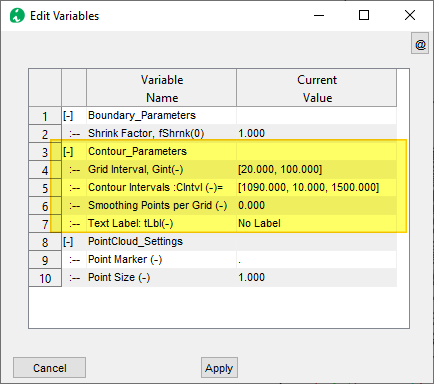
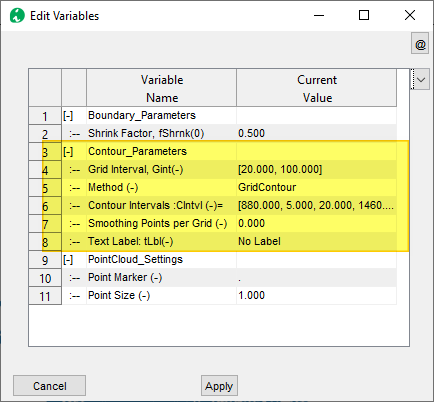
JulCommit-better late than never

diff --git a/index.html b/index.html
@@ -1,0 +1,59 @@
+<!DOCTYPE html>
+
+<html lang="en" xmlns="http://www.w3.org/1999/xhtml">
+<head>
+    <meta charset="utf-8" />
+    <title></title>
+</head>
+
+
+<!DOCTYPE html>
+<html>
+<head>
+    <title>Welcome to my Website</title>
+    <style>
+        body {
+            font-family: Arial, sans-serif;
+            margin: 0;
+            padding: 0;
+        }
+
+        .welcome {
+            background-color: #f2f2f2;
+            padding: 50px;
+            text-align: center;
+        }
+
+            .welcome h1 {
+                font-size: 36px;
+                margin-bottom: 20px;
+            }
+
+            .welcome p {
+                font-size: 18px;
+                margin-bottom: 30px;
+            }
+
+            .welcome a {
+                display: inline-block;
+                background-color: #4CAF50;
+                color: white;
+                padding: 10px 20px;
+                text-decoration: none;
+                border-radius: 5px;
+                font-size: 16px;
+            }
+
+                .welcome a:hover {
+                    background-color: #45a049;
+                }
+    </style>
+</head>
+<body>
+    <div class="welcome">
+        <h1>Welcome to my Website</h1>
+        <p>This is a simple website with a welcome message and a link to more content.</p>
+        <a href="index.md">Learn More</a>
+    </div>
+</body>
+</html>

diff --git a/Updates/Update_Jul24/Update_Jul24.md b/Updates/Update_Jul24/Update_Jul24.md
@@ -1,0 +1,155 @@
+# iCAD Update Notes (Jul-Aug2024)
+
+
+**Hello, and welcome again,** 
+
+We are excited to bring more functions and features to our users. This release marks a milestone, where we have included new modules for the design of diversion weirs and embankement analysis modules. We have also refined previously existing modules to meet the work needs of practitioners.
+
+The current release is **Version 2.9.0.10407**.
+
+## Table of Contents
+
+Key in this release include new modules for diversion weir design and embankment works analysis.
+
+<!--TOC-->
+  - [What's New](#whats-new)
+    - [General to iCAD Environment](#general-to-icad-environment)
+    - [Contour Cloud](#contour-cloud)
+    - [Channel Rating](#channel-rating)
+    - [Terraform](#terraform)
+    - [Diversion Weir](#diversion-weir)
+  - [Support for Latest AutoCAD Releases](#support-for-latest-autocad-releases)
+<!--/TOC-->
+
+## What's New
+
+### General to iCAD Environment
+[Back to ToC](#table-of-contents)
+
+- Data tip improvement
+    
+  Data tip display information is now synced for font name and size, set to the iCAD environment (accessible from `Graphic Area > Annotation Font`).
+
+  <img src="./media/Image68.png" style="width:4in">
+
+- Image copy
+
+  Image copy now takes high quality snapshots of the iCAD environment, with out the need for additional tools.
+  
+  <img src="./media/Image69.png" style="width:7in">
+  
+
+
+### Contour Cloud
+[Back to ToC](#table-of-contents)
+
+
+The ContourCloud module is enhanced for the following funcitons:
+
+- Improved contour generation
+
+  Contour generation is now enhanced to accept inputs for major and minor contour lines in one run. Previously the types needed to be generated separately.
+
+  <img src="./media/Image70.png" style="width:4in">
+  
+
+    Furthermore, plotting via buffer file is improved to change properties of polylines sent to AUtoCAD for elevation data. This greately improves drawing generation speed with complete data set for further processing (creating anotations).
+  
+  <img src="./media/Image67.png" style="width:4in">
+
+
+- Data tip for Z values
+
+    Data tip tool is improved to show z values where available. This can be helpful while exploring data point values in cloud data processing.
+  
+    <img src= "./media/Image71.png" style="width:5in">
+
+
+### Channel Rating
+[Back to ToC](#table-of-contents)
+
+Channel Rating module has been improved for:
+
+- Imrpoved computational algorithm and data presentation. Data viuslization and interaction is also enhanced, giveing users flexibility and intution.
+
+    <img src="./media/Image72.png" style="wodth:5in">
+
+
+
+### Terraform
+[Back to ToC](#table-of-contents)
+
+- A key improvement is made to the algorithm, to allow more complex shapes for defining intricate fill layers that can represent dam/embankment construction design.{br}
+
+    <img src= "./media/Image 001.png">
+
+    The above filter layer is created using an assembly shape in AutoCAD shown below. Such a shape (a fill shape containing positive slope) is now acceptable.
+
+
+    Key algorithms are improved to better understand complex shapes accurately, and return accurate measures of areas involved.
+  
+    <img src="./media/Image 6.png" style= "width:7in">
+
+
+
+### Diversion Weir
+[Back to ToC](#table-of-contents)
+
+
+Further to updates in previous release (also included here for completeness), the following improvements are applied:
+
+- Sluice bay view now includes percent of design discharge that can be accomodated in fully open position (for HFL)
+
+    <img src="./media/Image73.png" style="width:5in">
+
+- Improved plan view now showing correct placement of divde wall (with no bay condition), and coordinate transformation to meet axis alignment.
+- 
+    <img src="./media/Image74.png" style="width:5in">
+
+- Imrpoved navigation and view extent for all views, now stores view extents in all views, and restores them appropritately. The menu command for this task is removed.
+
+-  Corrected algorithm for hydraulic jump length calculation as a function of sequent depth. [previously it was set as a function of tail water depth. For jump mechanisms other than Type I, the actual sequent depth and the tail water depth are equal. This correction uses the theoretical sequent depth, aligning with provisions with litrature.
+ 
+    <img src="./media/Image75.png" style="width:5in">
+
+- Length of jump for Type I structures is now set by the software. ALong with this improvement, the hotspot for interactively positioning the end of the stilling pool is removed. Previously, it was set manually.
+
+- Subsurface profile views are now hidden by default. Users can toggle their visibility from the `Workflow > Show Subsurface HGL` menu item.
+
+    <img src="./media/Image76.png" style="width:5in">
+
+- The sub-surface pressure variation algorithm is enhanced to account for interference due to intermediate cutoff walls. Results now show values that are modified accordingly.
+<img src="./media/Image 003.png" style="width:6in">
+
+- A new report is included for stilling pools, now generating complete design information for selected energy dissipater mechanism.
+
+    <img src="./media/Image 5.png" style="width:6in">
+
+- Plan views now include detailed energy dissipater block dimension and placement dimension for all jump mechanisms.
+  
+  <img src="./media/Image66.png">
+
+- Different views of the design session now retain display extents, for smoother navigation experience.
+
+
+Bug fixes:
+- Baffle blocks appearing in Sluicebay views removed
+- Corrected views for sluice bay's (on left side)
+- Bugfix to display outlet view and design
+- corrected plan view display issues (rotation and alignment, divide wall locations)
+- Cd Selection for Ogee shaped weirs
+- Subsurface hydraulic calculation, and exit gradient values corrected.
+- Report for ogee type weir corrected and displayed
+- Hydraulic grade lines for USBR type basins corrected.
+- Rare NaN values displayed for prejump depth corrected.
+- Reported numbers with arithmetic error
+
+
+## Support for Latest AutoCAD Releases
+We are continually integrating latest versions of AutoCAD to our products. AutoCAD 2022 and 23 are now supported with our applications.
+
+> :warning: **NOTE**: The applications are being fully tested on these latest AutoDESK products, and the test is not completed. Please let us know if you encounter any issues, and we will be glad to help.
+
+[Back to ToC](#table-of-contents)
+
+END.

diff --git a/CloudContour/CloudContour.md b/CloudContour/CloudContour.md
@@ -168,11 +168,25 @@ Contours can be generated using different specifications. These are found in the
 <img src="./media/Image 033.png" style="Width:4in">{br}
 
 - Grid Intervals: Higher and lower ordeer grid intervals for calculating a regularly spaced mesh data for input to contour generation. The most important parameter is the lower value. For most uses, 20 is a good value.
-- Contour Intervals: The values of contour levels to generate, specifing the starting level, the incremental level, and the final level. In the snap shot above 1090, 2000, 2010, ..., 1500 will be created.
+- Method: Specifies the method for grid data creation method. The options available are
+    - GridContour (default)
+    - gridFit (usually faster and robust - under development)
+    
+- Contour Intervals: The values of contour levels to generate, specifying the contolr elements desired. There are two common methods:
+  - [zi, zint, zend]: This format specifies starting level, the incremental level, and the final level. In the snap shot above 1090, 2000, 2010, ..., 1500 will be created.
+  - [zi, zint, zint_major, zend]: This format specifies the desired contour lines for major levels.{br}
+
+
+    <img src="./media/Image 036.png" style="width:4in">
+
 - Smoothing Points per Grid: This value is by default 0, indicating no smoothing applied. Input an integer value between 1 and 4 to smoothen the contours. Each grid cell is subdivided in to smaller regions based on this setting, and cubic interpolation is applied on the grid data, resulting in a more smoother contour.
 - Text Label: Show sparse or dense contour labels along the generated contours.
 
-Contours are generated using `Workflow > Create Contours` menu command. 
+    > **Important Note:** If a surface data is loaded in to the iCAD workspace (see image below), this overrides the use of the specified methods and implements the interpolant generated from the surface data. 
+
+   <img src="./media/Image 035.png" >
+
+Once the settings for the session are all assigned, contours are generated using `Workflow > Create Contours` menu command. 
 
 <img src="./media/Image 018.png" style="width:7in">
 
@@ -230,6 +244,8 @@ For more information on generating drawings to AutoCAD see the [Data Processing 
 
 ###  Working with large data sets
 [Back to ToC](#table-of-contents)
+
+> Note: Below tips apply to older versions (before Jul 2024), and may not be needed in recent versions. Algorithms and workflows have been optimized.
 
 When working with larger data sets, contour generation to AutoCAD can take some time. The following workaround may help save some time, in such cases. Assuming the user needs a contour plot of 1.0 unit interval:
 

diff --git a/DiversionWeirDesign/DiversionWeirDesign.md b/DiversionWeirDesign/DiversionWeirDesign.md
@@ -1048,16 +1048,7 @@ The outlet canal way is designed using standard flow section design steps. Thus,
 *Recommended Freeboard as a funciton of Discharge capacity (from USBR)*
 
 
-Below figures show the symbols used to represent the key dimensions of the diverison weir structure, as found in the variable editor.
 
-<img src="./media/image29.png" style="width:4.36111in;height:4.32778in" />
-
-*Figure showing key transverse dimensions.*
-
-<img src="./media/image36.png"
-style="width:8.06875in;height:4.19028in" />
-
-*Figure showing key longitudinal dimensions.*
 
 ## Creating Reports
 One can create reports for selected design tasks at any time. Follow below steps to generate reports.

diff --git a/ChannelRatingWSPRO/ChannelRate_WSPRO.md b/ChannelRatingWSPRO/ChannelRate_WSPRO.md
@@ -4,9 +4,9 @@
 
 Rating of natural streams can be developed using the product module ***ChannelRate_WSPRO***. The module is built on WSPRO98 algorithm from USGS, providing a convenient solution environment for interactive input and output of solutions.  It also solves rating curves using simple application of manning's equation.
 
-<img src="./media/image18.png" style="width:4in">
+<img src="./media/image28.png" style="width:5in">
 
-*A solved rating curve for a cross-section*.
+*A cross-section view for a solved rating curve at two flood levels.*.
 
 ## Table of Contents
 <!--TOC-->

diff --git a/SetupAndLicensingGuide/setupguide.md b/SetupAndLicensingGuide/setupguide.md
@@ -59,7 +59,7 @@ iCAD and related software products have the following system requirements. These
 - Architecture: X64
 - Processor: Coire i7 or equivalent, or latter
 - RAM: 4GB or more
-- Screen: FHD (1020x1080), two screens strongly recommended for using AutoCAD side by side.
+- Screen: FHD (1920x1080), two screens strongly recommended for using AutoCAD side by side.
 - AutoCAD: 2018 or latter
 
 > Notes: Using on i5 machines is possible, but performance is not guaranteed. 

diff --git a/index.md b/index.md
@@ -34,7 +34,7 @@ iCAD software is continuously updated with more features and functionalities. Th
 
  [Jun 24 updates - latest](Updates/Update_Jun24/Update_Jun24.md)
 
-> :bulb: The latest release is **Version 2.8.9.9270** (Mar 2024)
+> :bulb: The latest release is **Version 2.9.0.10407** (Jul 2024)
 
 > Accompanying iCAD bridge application is updated to **Version V4.8.12**.
 

diff --git a/Updates/Update_Jun24/Update_Jun24.md b/Updates/Update_Jun24/Update_Jun24.md
@@ -58,7 +58,7 @@ Bug fixes:
 - Report for ogee type weir corrected and displayed
 - Hydraulic grade lines for USBR type basins corrected.
 - Rare NaN values displayed for prejump depth corrected.
-
+- Reported numbers with arithmetic error
 
 
 ## Support for Latest AutoCAD Releases
